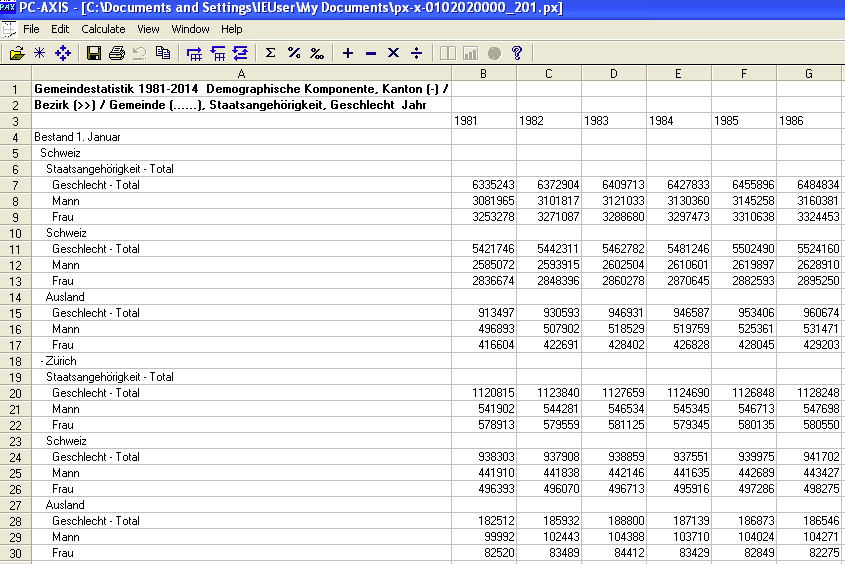
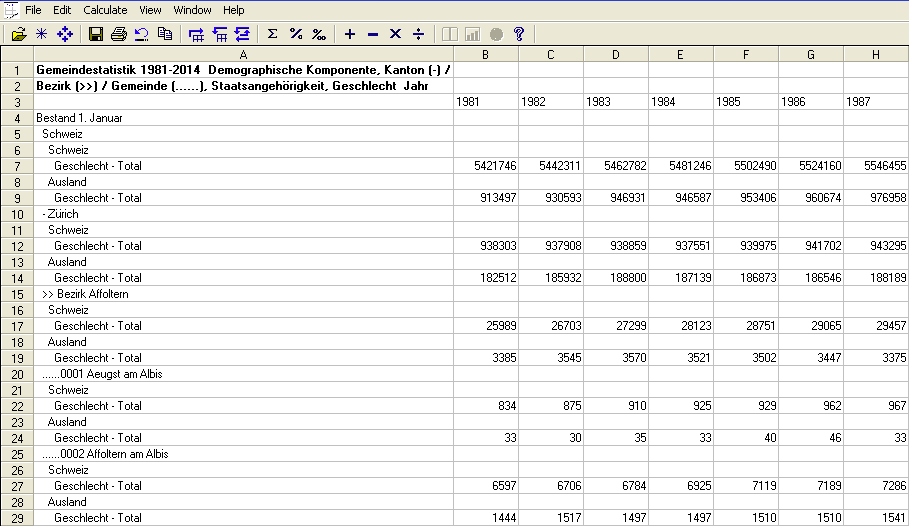
Improve the post

diff --git a/_drafts/2015-12-23-extract-data-from-bfs-stat-tab.md b/_drafts/2015-12-23-extract-data-from-bfs-stat-tab.md
@@ -28,9 +28,11 @@ The easiest way to get started is using a XP VM image from the [Modern.IE projec
 
 ## Open File in PX-Axis
 
-Open the file with PX-Axis and select `All` dimensions.
+Open the file with PX-Axis and select the dimensions you want to export.
+To export the data into CSV it is best to omit the aggregated values and
+focus on a single dimension (in this case population of swiss people and foreigners).
 
-![Open file wiht PX-Axis](/media/open_file_px_axis.png)
+![Open file with PX-Axis](/media/choose_dimensions.png)
 ![View of file in PX-Axis](/media/px_axis_file.png)
 
 ## Export as CSV
@@ -42,4 +44,60 @@ Use `File` > `Save as` to open the export wizard. Switch to the `Convert` tab an
 ## Clean up CSV
 
 Now you have the data available in CSV format but you usually want to extract distinct dimensions
-of the data.
+of the data and skip the aggregates.
+
+![Skip aggregates](/media/skip_take.png)
+
+I use a small Python script to only extract the data of the communities (and skip district and canton aggregates). Make sure the data is saved as UTF-8 in order to use it.
+
+```python
+import csv
+import sys
+
+
+def extract_values(reader):
+
+    def parse_row(community, nationality, row):
+        parts = community.split(' ')
+        community_id = parts[0]
+        community_name = " ".join(parts[1:])
+        return [community_id, community_name, nationality] + row[4:]
+
+    def skip():
+        next(reader)
+
+    def parse_header_row():
+        header_row = next(reader)
+        additional_fields = ['community_id', 'community_name', 'nationality']
+        return additional_fields + header_row[4:]
+
+    yield parse_header_row()
+    for row in reader:
+        is_community = len(row) > 1 and row[1].startswith('......')
+        if is_community:
+            community = row[1].replace('......', '')
+
+            skip()
+            yield parse_row(community, 'Switzerland', next(reader))
+            skip()
+            yield parse_row(community, 'Foreign', next(reader))
+
+
+if __name__ == '__main__':
+    args = docopt(__doc__, version='0.1')
+
+    with open(args.get('<csv_file>')) as csv_file:
+        reader = csv.reader(csv_file, delimiter='\t', quotechar='"')
+        writer = csv.writer(sys.stdout, delimiter='\t', quotechar='"')
+
+        for row in extract_values(reader):
+            writer.writerow(row)
+
+```
+
+## Resulting CSV File
+
+You now have a CSV file you can use in other programs and languages or also import into a database.
+
+![Cleaned CSV file](/media/cleaned_csv_file.png)
+
